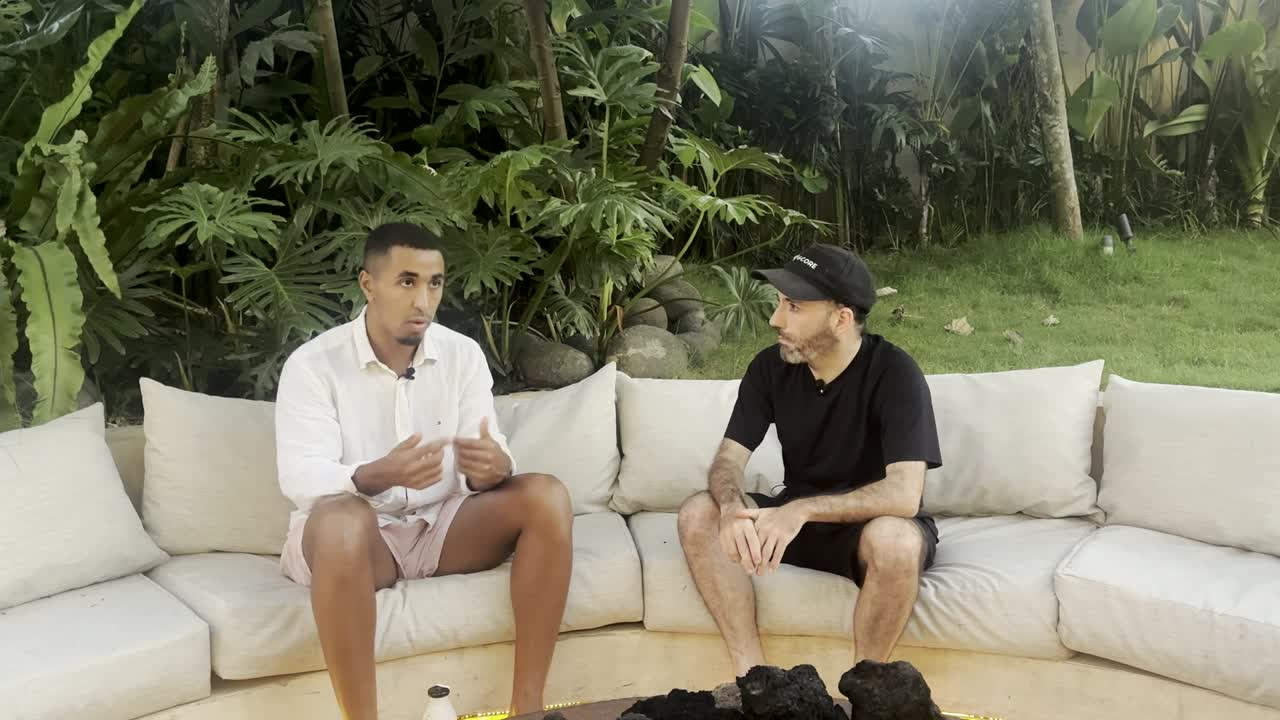
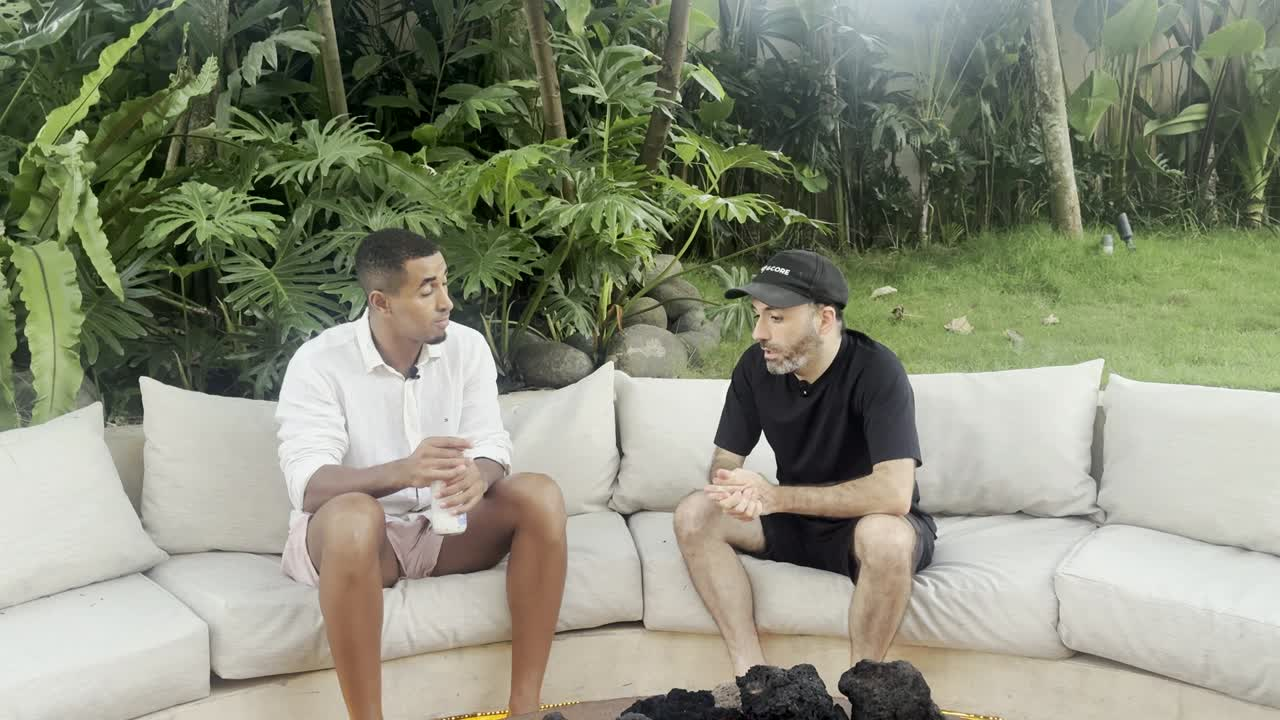
Use full Scribe recut for Abel video testimonial
Replace the 90s placeholder with the ~6.5min sectioned client story
(four parts with title cards, name card under Abel). Update the
pull-quote and body copy to match the final cut.

Claude-Session: https://claude.ai/code/session_01KhhtFUP7yW5C4t9SY5TvjQ

diff --git a/index.html b/index.html
@@ -379,8 +379,8 @@ section{padding:clamp(4.5rem,9vw,7.5rem) 0}
         </div>
         <div class="vproof__text">
           <div class="quote__mark">"</div>
-          <blockquote>I just leave you my computer and you do it — and technology is working for me.</blockquote>
-          <p class="quote__body">Abel runs a wealth-management business with no lead system. We built him an AI scraper that delivers qualified leads daily, connected Claude to his YouTube analytics, and set it running in the cloud — so it works while he's at the gym. And he understands every piece of it.</p>
+          <blockquote>I just leave you my computer — and you do it.</blockquote>
+          <p class="quote__body">Abel runs a wealth-management business with no lead system. We built him an AI scraper that delivers qualified leads daily and wired Claude into his YouTube analytics — and he understands every piece of it. "You're an AI coach, but you're not trying to cheat the system."</p>
           <div class="quote__who"><div class="quote__init">A</div><div><div class="quote__name">Abel Rabérin</div><div class="quote__role">International Wealth Manager</div></div></div>
         </div>
       </div>